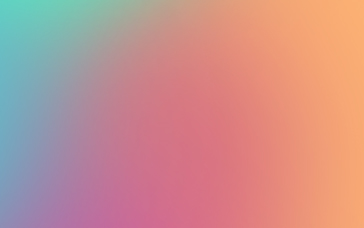
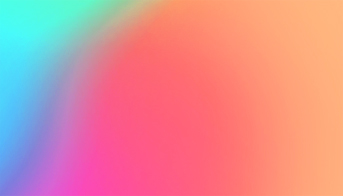
v6

diff --git a/index.html b/index.html
@@ -34,9 +34,9 @@
                 <div class="col-md-4  col-sm-4 col-lg-4 col-xl-4 p-0"></div>
                 <div class="col-md-4  col-sm-4 col-lg-4 col-xl-4 p-0"></div>
                 <div class="col-md-8  col-sm-8 col-lg-8 col-xl-8 p-0" style="text-align: right;">
-                    <h2 style="text-align: right; line-height: 125%;  font-size: 1.1em; font-family: 'Open Sans', sans-serif; font-style: italic;">I consider myself a creative and curious person.<br/>
-                        Learning self-taught is one of my passions,
-                        and I would love to be involved in significant projects.</h2>
+                    <h2 style="text-align: right; line-height: 125%;  font-size: 1.1em; font-family: 'Open Sans', sans-serif; font-style: italic; color: #dc7f97;">I consider myself a creative and curious person.<br/>
+                        Learning self-taught is one of my passions.<br/>
+                        I love to be involved in significant projects.</h2>
                 </div>
             </div>
         </div>
@@ -51,7 +51,7 @@
                     </label>
                     <img id="icid" class="center-block img-fluid side-buffer" src="myCSS/myIMG/design_ic2.png" style="position: absolute; transform: scale(.7) translateY(-10px); top: 0; pointer-events: none;"/>
                     <p id="descriptions" class="text-center side-buffer" style="position: absolute; line-height: normal; color: white; pointer-events: none;">
-                        Since I was 12 I always loved design and being creative. That's how I got into the 3D graphics world.
+                        Since I was 12 I've been loving design. That's how I got into the 3D graphics world.
                     </p>
                     <p class="text-center side-buffer top-buffer" style="background-color: #272727;"><br/>DESIGN</p>
                     <p class="text-center top-buffer-fix side-buffer knowledge" style="background-color: #272727;">
@@ -97,7 +97,7 @@
                     </label>
                     <img id="icid" class="center-block img-fluid side-buffer" src="myCSS/myIMG/music_ic2.png" style="position: absolute; transform: scale(.7) translateY(-10px); top: 0; pointer-events: none;"/>
                     <p id="descriptions" class="text-center side-buffer " style="position: absolute; line-height: normal; color: white; pointer-events: none;">
-                        When I was 10, I studied music theory and I played the piano. I still love it.
+                        For 5 years I've been studying music theory and piano. Lately I like composing on my own.
                     </p>
                     <p class="text-center side-buffer top-buffer" style="background-color: #272727;"><br/>MUSIC</p>
                     <p class="text-center top-buffer-fix side-buffer knowledge" style=" background-color: #272727;">

diff --git a/gallery.html b/gallery.html
@@ -23,7 +23,7 @@
 
         <div class=" col-md-6  col-sm-12 col-lg-6 col-xl-6 align-self-center p-0">
             <label class="gal-buffer">
-                <div class="box" style="background-color: #bd4147; color: whitesmoke; font-size: .7em; text-align: center; height: 100px; line-height: 100px;">
+                <div class="box" style="background-color: rgb(40, 40, 40); color: whitesmoke; font-size: .7em; text-align: center; height: 100px; line-height: 100px;">
                     Web under construction &#9888
                 </div>
             </label>
@@ -68,7 +68,7 @@
 
         <div class=" col-md-6  col-sm-12 col-lg-6 col-xl-6 align-self-center p-0" >
             <label class="_alert_lbl gal-buffer" >
-                <div class="button" style="background-color: #5cb85c; color: whitesmoke; font-size: .7em; text-align: center; height: 100px; line-height: 100px;" id="myhov" onclick="myret()" >
+                <div class="button" style="background-color:rgb(39, 165, 115); color: whitesmoke; font-size: .7em; text-align: center; height: 100px; line-height: 100px;" id="myhov" onclick="myret()" >
                     Home
                 </div>
             </label>

diff --git a/myCSS/index.css b/myCSS/index.css
@@ -59,7 +59,7 @@ label.code_lbl img{
     height: 50px;
 
 }  :checked + label.code_lbl img {
-       background: url("myIMG/gradLine_bg.jpg");
+       background: url("myIMG/grad_bg.jpg");
        background-size: 50%;
        background-repeat: no-repeat;
        filter: contrast(1.2);
@@ -81,7 +81,7 @@ label.design_lbl img{
     height: 50px;
 
 }  :checked + label.design_lbl img {
-       background: url("myIMG/gradLine_bg.jpg");
+       background: url("myIMG/grad_bg.jpg");
        background-size: 50%;
        background-repeat: no-repeat;
        filter: contrast(1.2);
@@ -103,7 +103,7 @@ label.music_lbl img {
     height: 50px;
 
 }  :checked + label.music_lbl img {
-       background: url("myIMG/gradLine_bg.jpg");
+       background: url("myIMG/grad_bg.jpg");
        background-size: 50%;
        background-repeat: no-repeat;
        filter: contrast(1.2);
